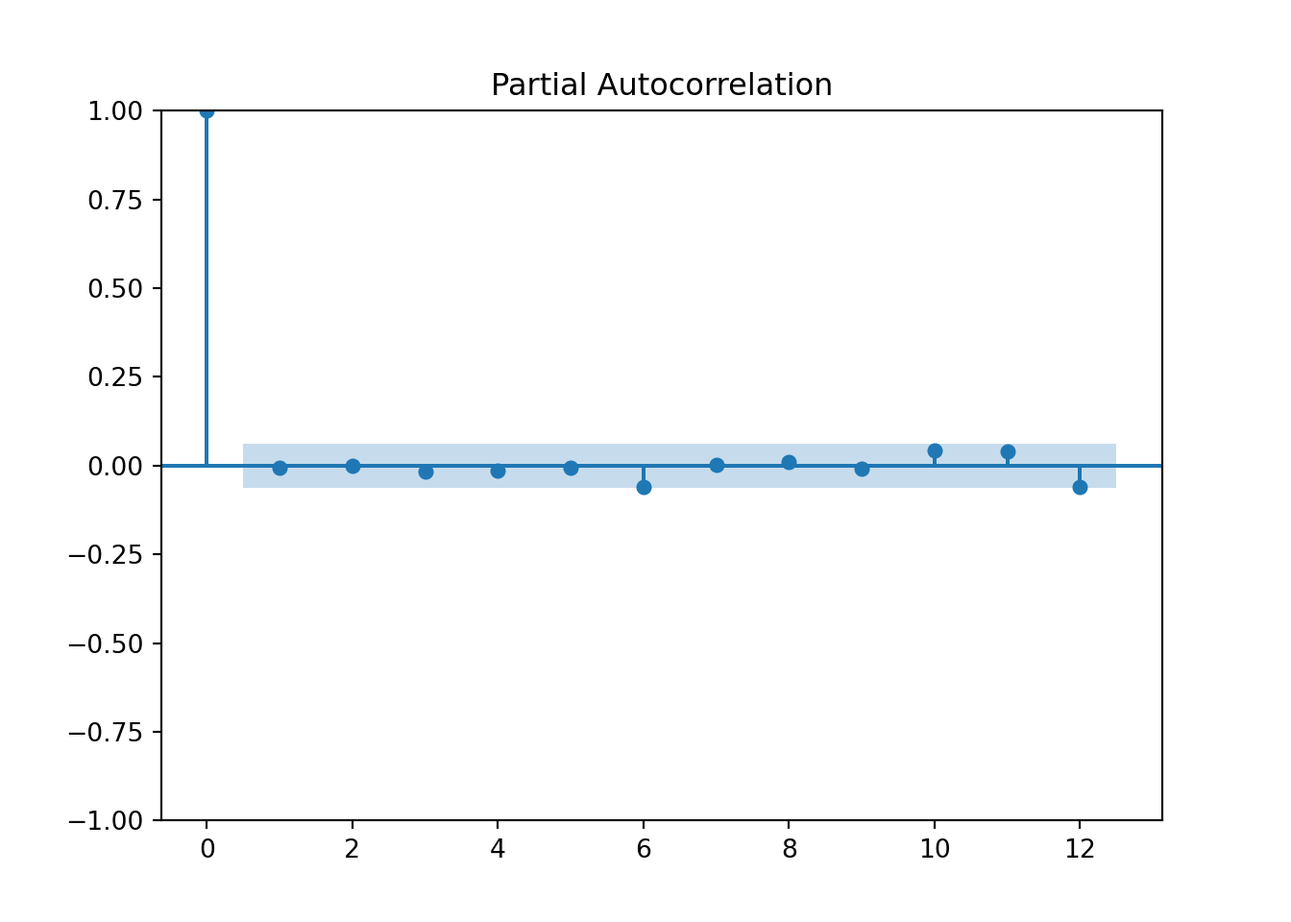
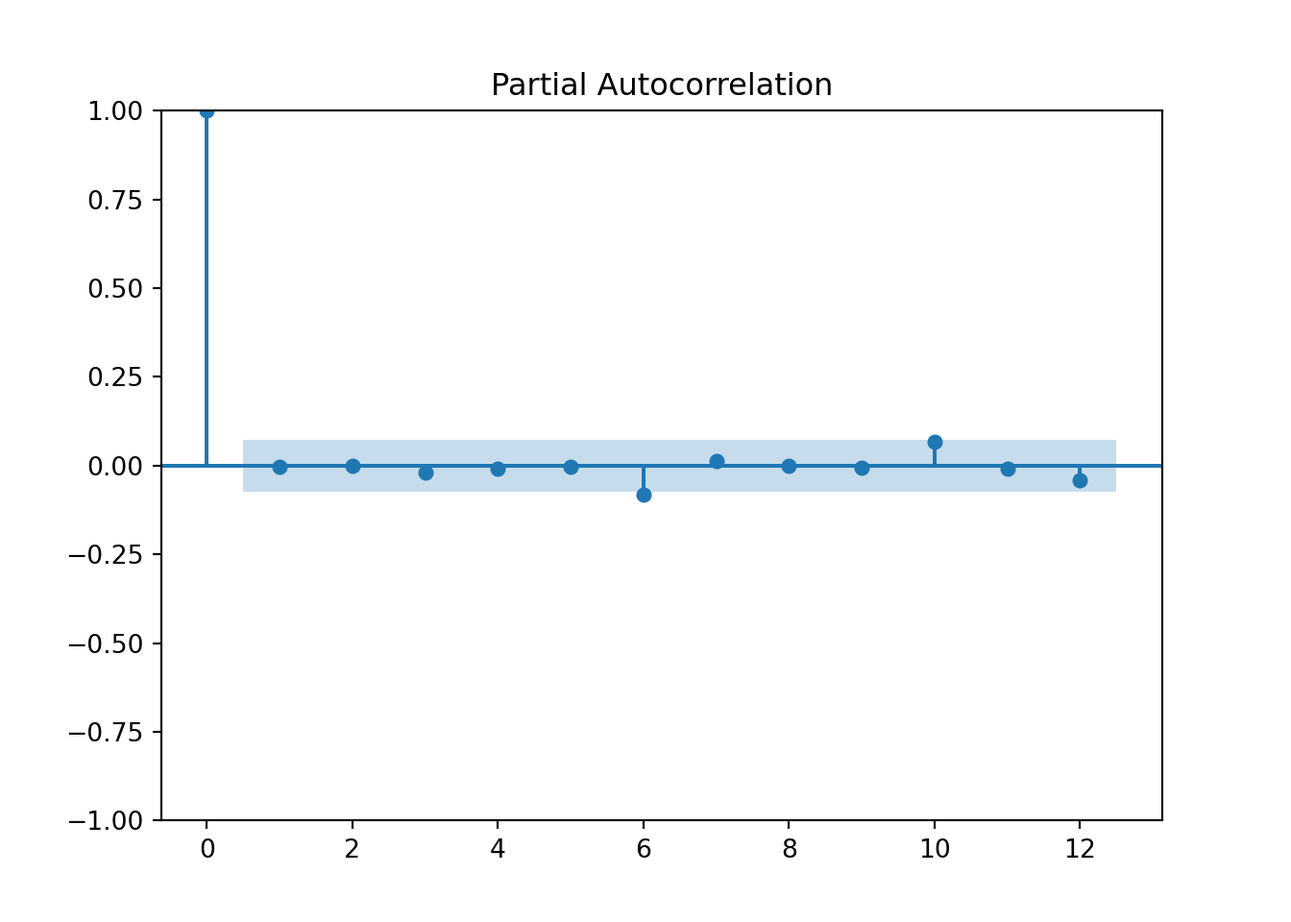
Updating Python for ARIMA

Changed region(s): [[0.1875, 0.4688, 0.8438, 0.5312], [0.4688, 0.5312, 0.5312, 0.5625]]

diff --git a/docs/arima.html b/docs/arima.html
@@ -23,7 +23,7 @@
 <meta name="author" content="by Dr. Susan Simmons and Dr. Aric LaBarr" />
 
 
-<meta name="date" content="2024-08-20" />
+<meta name="date" content="2024-08-21" />
 
   <meta name="viewport" content="width=device-width, initial-scale=1" />
   <meta name="apple-mobile-web-app-capable" content="yes" />
@@ -927,40 +927,42 @@ H_{A}:Significant\qquad autocorrletion \]</span></p>
 <span id="cb148-10"><a href="arima.html#cb148-10" tabindex="-1"></a></span>
 <span id="cb148-11"><a href="arima.html#cb148-11" tabindex="-1"></a>quotes<span class="op">=</span>pd.read_csv(<span class="st">&quot;Q:</span><span class="ch">\\</span><span class="st">My Drive</span><span class="ch">\\</span><span class="st">Fall 2017 - Time Series</span><span class="ch">\\</span><span class="st">DataR</span><span class="ch">\\</span><span class="st">fpp_insurance.csv&quot;</span>)</span>
 <span id="cb148-12"><a href="arima.html#cb148-12" tabindex="-1"></a>y<span class="op">=</span>pd.read_csv(<span class="st">&quot;Q:</span><span class="ch">\\</span><span class="st">My Drive</span><span class="ch">\\</span><span class="st">Fall 2017 - Time Series</span><span class="ch">\\</span><span class="st">DataR</span><span class="ch">\\</span><span class="st">ar2.csv&quot;</span>)</span>
-<span id="cb148-13"><a href="arima.html#cb148-13" tabindex="-1"></a></span>
-<span id="cb148-14"><a href="arima.html#cb148-14" tabindex="-1"></a>result<span class="op">=</span>adfuller(quotes[<span class="st">&quot;Quotes&quot;</span>])</span>
-<span id="cb148-15"><a href="arima.html#cb148-15" tabindex="-1"></a><span class="bu">print</span>(<span class="ss">f&#39;ADF p-value: </span><span class="sc">{</span>result[<span class="dv">1</span>]<span class="sc">}</span><span class="ss">&#39;</span>)</span></code></pre></div>
-<pre><code>## ADF p-value: 0.010194998749727997</code></pre>
-<div class="sourceCode" id="cb150"><pre class="sourceCode python"><code class="sourceCode python"><span id="cb150-1"><a href="arima.html#cb150-1" tabindex="-1"></a>plot_acf(quotes[<span class="st">&quot;Quotes&quot;</span>],lags<span class="op">=</span><span class="dv">12</span>)</span>
+<span id="cb148-13"><a href="arima.html#cb148-13" tabindex="-1"></a>quotes_train <span class="op">=</span> quotes.head(<span class="dv">36</span>)</span>
+<span id="cb148-14"><a href="arima.html#cb148-14" tabindex="-1"></a>y_train <span class="op">=</span> y.head(<span class="dv">731</span>)</span>
+<span id="cb148-15"><a href="arima.html#cb148-15" tabindex="-1"></a></span>
+<span id="cb148-16"><a href="arima.html#cb148-16" tabindex="-1"></a>result<span class="op">=</span>adfuller(quotes_train[<span class="st">&quot;Quotes&quot;</span>])</span>
+<span id="cb148-17"><a href="arima.html#cb148-17" tabindex="-1"></a><span class="bu">print</span>(<span class="ss">f&#39;ADF p-value: </span><span class="sc">{</span>result[<span class="dv">1</span>]<span class="sc">}</span><span class="ss">&#39;</span>)</span></code></pre></div>
+<pre><code>## ADF p-value: 0.04236093395330452</code></pre>
+<div class="sourceCode" id="cb150"><pre class="sourceCode python"><code class="sourceCode python"><span id="cb150-1"><a href="arima.html#cb150-1" tabindex="-1"></a>plot_acf(quotes_train[<span class="st">&quot;Quotes&quot;</span>],lags<span class="op">=</span><span class="dv">12</span>)</span>
 <span id="cb150-2"><a href="arima.html#cb150-2" tabindex="-1"></a>pyplot.show()</span></code></pre></div>
 <p><img src="bookdownproj_files/figure-html/ADF,%20correlation%20plots%20and%20ARIMA-1.png" width="672" /></p>
-<div class="sourceCode" id="cb151"><pre class="sourceCode python"><code class="sourceCode python"><span id="cb151-1"><a href="arima.html#cb151-1" tabindex="-1"></a>plot_pacf(quotes[<span class="st">&quot;Quotes&quot;</span>],lags<span class="op">=</span><span class="dv">12</span>)</span>
+<div class="sourceCode" id="cb151"><pre class="sourceCode python"><code class="sourceCode python"><span id="cb151-1"><a href="arima.html#cb151-1" tabindex="-1"></a>plot_pacf(quotes_train[<span class="st">&quot;Quotes&quot;</span>],lags<span class="op">=</span><span class="dv">12</span>)</span>
 <span id="cb151-2"><a href="arima.html#cb151-2" tabindex="-1"></a>pyplot.show</span></code></pre></div>
-<pre><code>## &lt;function make_python_function.&lt;locals&gt;.python_function at 0x000001EE61741B40&gt;</code></pre>
-<div class="sourceCode" id="cb153"><pre class="sourceCode python"><code class="sourceCode python"><span id="cb153-1"><a href="arima.html#cb153-1" tabindex="-1"></a>model <span class="op">=</span> ARIMA(y, order<span class="op">=</span>(<span class="dv">2</span>,<span class="dv">0</span>,<span class="dv">0</span>))</span>
+<pre><code>## &lt;function make_python_function.&lt;locals&gt;.python_function at 0x0000026CB1F41B40&gt;</code></pre>
+<div class="sourceCode" id="cb153"><pre class="sourceCode python"><code class="sourceCode python"><span id="cb153-1"><a href="arima.html#cb153-1" tabindex="-1"></a>model <span class="op">=</span> ARIMA(y_train, order<span class="op">=</span>(<span class="dv">2</span>,<span class="dv">0</span>,<span class="dv">0</span>))</span>
 <span id="cb153-2"><a href="arima.html#cb153-2" tabindex="-1"></a>model_fit <span class="op">=</span> model.fit()</span>
 <span id="cb153-3"><a href="arima.html#cb153-3" tabindex="-1"></a><span class="bu">print</span>(model_fit.summary())</span></code></pre></div>
 <pre><code>##                                SARIMAX Results                                
 ## ==============================================================================
-## Dep. Variable:                      Y   No. Observations:                 1000
-## Model:                 ARIMA(2, 0, 0)   Log Likelihood               -3695.014
-## Date:                Tue, 20 Aug 2024   AIC                           7398.028
-## Time:                        13:23:35   BIC                           7417.659
-## Sample:                             0   HQIC                          7405.489
-##                                - 1000                                         
+## Dep. Variable:                      Y   No. Observations:                  731
+## Model:                 ARIMA(2, 0, 0)   Log Likelihood               -2696.123
+## Date:                Wed, 21 Aug 2024   AIC                           5400.247
+## Time:                        12:10:33   BIC                           5418.625
+## Sample:                             0   HQIC                          5407.337
+##                                 - 731                                         
 ## Covariance Type:                  opg                                         
 ## ==============================================================================
 ##                  coef    std err          z      P&gt;|z|      [0.025      0.975]
 ## ------------------------------------------------------------------------------
-## const         -0.1365      0.420     -0.325      0.745      -0.960       0.687
-## ar.L1          0.6406      0.030     21.165      0.000       0.581       0.700
-## ar.L2         -0.3759      0.030    -12.466      0.000      -0.435      -0.317
-## sigma2        94.7853      4.193     22.604      0.000      86.567     103.004
+## const         -0.0960      0.481     -0.199      0.842      -1.039       0.847
+## ar.L1          0.6398      0.036     17.605      0.000       0.569       0.711
+## ar.L2         -0.3838      0.035    -11.007      0.000      -0.452      -0.315
+## sigma2        93.4961      4.803     19.466      0.000      84.083     102.910
 ## ===================================================================================
-## Ljung-Box (L1) (Q):                   0.02   Jarque-Bera (JB):                 0.26
-## Prob(Q):                              0.89   Prob(JB):                         0.88
-## Heteroskedasticity (H):               1.04   Skew:                            -0.03
-## Prob(H) (two-sided):                  0.73   Kurtosis:                         3.05
+## Ljung-Box (L1) (Q):                   0.00   Jarque-Bera (JB):                 0.27
+## Prob(Q):                              0.95   Prob(JB):                         0.88
+## Heteroskedasticity (H):               0.93   Skew:                            -0.03
+## Prob(H) (two-sided):                  0.58   Kurtosis:                         3.08
 ## ===================================================================================
 ## 
 ## Warnings:
@@ -970,131 +972,114 @@ H_{A}:Significant\qquad autocorrletion \]</span></p>
 <span id="cb155-3"><a href="arima.html#cb155-3" tabindex="-1"></a>pyplot.show()</span></code></pre></div>
 <p><img src="bookdownproj_files/figure-html/ADF,%20correlation%20plots%20and%20ARIMA-2.png" width="672" /></p>
 <div class="sourceCode" id="cb156"><pre class="sourceCode python"><code class="sourceCode python"><span id="cb156-1"><a href="arima.html#cb156-1" tabindex="-1"></a><span class="bu">print</span>(residuals.describe())</span></code></pre></div>
-<pre><code>##                  0
-## count  1000.000000
-## mean     -0.001313
-## std       9.747534
-## min     -33.282545
-## 25%      -6.475670
-## 50%       0.117391
-## 75%       6.510636
-## max      30.318100</code></pre>
+<pre><code>##                 0
+## count  731.000000
+## mean     0.001103
+## std      9.685433
+## min    -33.427139
+## 25%     -6.456285
+## 50%      0.257085
+## 75%      6.333976
+## max     30.312938</code></pre>
 <div class="sourceCode" id="cb158"><pre class="sourceCode python"><code class="sourceCode python"><span id="cb158-1"><a href="arima.html#cb158-1" tabindex="-1"></a>plot_acf(residuals,lags<span class="op">=</span><span class="dv">12</span>)</span>
 <span id="cb158-2"><a href="arima.html#cb158-2" tabindex="-1"></a>pyplot.show()</span></code></pre></div>
 <p><img src="bookdownproj_files/figure-html/ADF,%20correlation%20plots%20and%20ARIMA-3.png" width="672" /></p>
 <div class="sourceCode" id="cb159"><pre class="sourceCode python"><code class="sourceCode python"><span id="cb159-1"><a href="arima.html#cb159-1" tabindex="-1"></a>plot_pacf(residuals,lags<span class="op">=</span><span class="dv">12</span>)</span>
 <span id="cb159-2"><a href="arima.html#cb159-2" tabindex="-1"></a>pyplot.show()</span></code></pre></div>
 <p><img src="bookdownproj_files/figure-html/ADF,%20correlation%20plots%20and%20ARIMA-4.png" width="672" /><img src="bookdownproj_files/figure-html/ADF,%20correlation%20plots%20and%20ARIMA-5.png" width="672" /></p>
+<div class="sourceCode" id="cb160"><pre class="sourceCode python"><code class="sourceCode python"><span id="cb160-1"><a href="arima.html#cb160-1" tabindex="-1"></a><span class="im">from</span> pmdarima.arima <span class="im">import</span> ndiffs</span>
+<span id="cb160-2"><a href="arima.html#cb160-2" tabindex="-1"></a></span>
+<span id="cb160-3"><a href="arima.html#cb160-3" tabindex="-1"></a>hurricane <span class="op">=</span> pd.read_csv(<span class="st">&quot;https://raw.githubusercontent.com/sjsimmo2/TimeSeries/master/hurrican.csv&quot;</span>)</span>
+<span id="cb160-4"><a href="arima.html#cb160-4" tabindex="-1"></a>hurricane2 <span class="op">=</span> hurricane.dropna(axis<span class="op">=</span><span class="dv">0</span>)</span>
+<span id="cb160-5"><a href="arima.html#cb160-5" tabindex="-1"></a>hurricane_train <span class="op">=</span>hurricane2.head(<span class="dv">149</span>)</span>
+<span id="cb160-6"><a href="arima.html#cb160-6" tabindex="-1"></a>hurricane_train</span></code></pre></div>
+<pre><code>##      Date  Hurricanes  MinVMax  MaxVMax  MeanVMax  Year
+## 0    1851           3     80.0    100.0      86.7  1851
+## 1    1852           5     70.0    100.0      82.0  1852
+## 2    1853           4     70.0    130.0      97.5  1853
+## 3    1854           3     70.0    110.0      90.0  1854
+## 4    1855           4     70.0    110.0      90.0  1855
+## ..    ...         ...      ...      ...       ...   ...
+## 146  1997           3     65.0    110.0      81.7  1997
+## 147  1998          10     65.0    155.0      96.5  1998
+## 148  1999           8     85.0    135.0     114.4  1999
+## 149  2000           8     70.0    120.0      91.3  2000
+## 150  2001           9     65.0    125.0      91.7  2001
+## 
+## [149 rows x 6 columns]</code></pre>
+<div class="sourceCode" id="cb162"><pre class="sourceCode python"><code class="sourceCode python"><span id="cb162-1"><a href="arima.html#cb162-1" tabindex="-1"></a>n_diffs <span class="op">=</span> ndiffs(hurricane_train[<span class="st">&quot;MeanVMax&quot;</span>])</span>
+<span id="cb162-2"><a href="arima.html#cb162-2" tabindex="-1"></a><span class="bu">print</span>(n_diffs)</span></code></pre></div>
+<pre><code>## 1</code></pre>
 <p>Checking for white noise:
 The first value in the Ljung-Box test is the test statistic and the second value is the p-value.</p>
-<div class="sourceCode" id="cb160"><pre class="sourceCode python"><code class="sourceCode python"><span id="cb160-1"><a href="arima.html#cb160-1" tabindex="-1"></a><span class="im">import</span> numpy <span class="im">as</span> np</span>
-<span id="cb160-2"><a href="arima.html#cb160-2" tabindex="-1"></a><span class="im">import</span> pandas <span class="im">as</span> pd</span>
-<span id="cb160-3"><a href="arima.html#cb160-3" tabindex="-1"></a><span class="im">import</span> matplotlib.pyplot <span class="im">as</span> plt</span>
-<span id="cb160-4"><a href="arima.html#cb160-4" tabindex="-1"></a><span class="im">from</span> matplotlib <span class="im">import</span> pyplot</span>
-<span id="cb160-5"><a href="arima.html#cb160-5" tabindex="-1"></a><span class="im">from</span> pandas <span class="im">import</span> DataFrame</span>
-<span id="cb160-6"><a href="arima.html#cb160-6" tabindex="-1"></a><span class="im">import</span> statsmodels.api <span class="im">as</span> sm</span>
-<span id="cb160-7"><a href="arima.html#cb160-7" tabindex="-1"></a><span class="im">from</span> statsmodels.tsa.stattools <span class="im">import</span> adfuller</span>
-<span id="cb160-8"><a href="arima.html#cb160-8" tabindex="-1"></a><span class="im">from</span> statsmodels.graphics.tsaplots <span class="im">import</span> plot_acf</span>
-<span id="cb160-9"><a href="arima.html#cb160-9" tabindex="-1"></a><span class="im">from</span> statsmodels.graphics.tsaplots <span class="im">import</span> plot_pacf</span>
-<span id="cb160-10"><a href="arima.html#cb160-10" tabindex="-1"></a><span class="im">from</span> statsmodels.tsa.arima.model <span class="im">import</span> ARIMA</span>
-<span id="cb160-11"><a href="arima.html#cb160-11" tabindex="-1"></a></span>
-<span id="cb160-12"><a href="arima.html#cb160-12" tabindex="-1"></a>quotes<span class="op">=</span>pd.read_csv(<span class="st">&quot;Q:</span><span class="ch">\\</span><span class="st">My Drive</span><span class="ch">\\</span><span class="st">Fall 2017 - Time Series</span><span class="ch">\\</span><span class="st">DataR</span><span class="ch">\\</span><span class="st">fpp_insurance.csv&quot;</span>)</span>
-<span id="cb160-13"><a href="arima.html#cb160-13" tabindex="-1"></a>y<span class="op">=</span>pd.read_csv(<span class="st">&quot;Q:</span><span class="ch">\\</span><span class="st">My Drive</span><span class="ch">\\</span><span class="st">Fall 2017 - Time Series</span><span class="ch">\\</span><span class="st">DataR</span><span class="ch">\\</span><span class="st">ar2.csv&quot;</span>)</span>
-<span id="cb160-14"><a href="arima.html#cb160-14" tabindex="-1"></a></span>
-<span id="cb160-15"><a href="arima.html#cb160-15" tabindex="-1"></a></span>
-<span id="cb160-16"><a href="arima.html#cb160-16" tabindex="-1"></a>model <span class="op">=</span> ARIMA(y, order<span class="op">=</span>(<span class="dv">2</span>,<span class="dv">0</span>,<span class="dv">0</span>))</span>
-<span id="cb160-17"><a href="arima.html#cb160-17" tabindex="-1"></a>model_fit <span class="op">=</span> model.fit()</span>
-<span id="cb160-18"><a href="arima.html#cb160-18" tabindex="-1"></a><span class="bu">print</span>(model_fit.summary())</span></code></pre></div>
+<div class="sourceCode" id="cb164"><pre class="sourceCode python"><code class="sourceCode python"><span id="cb164-1"><a href="arima.html#cb164-1" tabindex="-1"></a><span class="im">import</span> statsmodels.stats.diagnostic <span class="im">as</span> diag</span>
+<span id="cb164-2"><a href="arima.html#cb164-2" tabindex="-1"></a></span>
+<span id="cb164-3"><a href="arima.html#cb164-3" tabindex="-1"></a></span>
+<span id="cb164-4"><a href="arima.html#cb164-4" tabindex="-1"></a>model <span class="op">=</span> ARIMA(y_train, order<span class="op">=</span>(<span class="dv">2</span>,<span class="dv">0</span>,<span class="dv">0</span>))</span>
+<span id="cb164-5"><a href="arima.html#cb164-5" tabindex="-1"></a>model_fit <span class="op">=</span> model.fit()</span>
+<span id="cb164-6"><a href="arima.html#cb164-6" tabindex="-1"></a><span class="bu">print</span>(model_fit.summary())</span></code></pre></div>
 <pre><code>##                                SARIMAX Results                                
 ## ==============================================================================
-## Dep. Variable:                      Y   No. Observations:                 1000
-## Model:                 ARIMA(2, 0, 0)   Log Likelihood               -3695.014
-## Date:                Tue, 20 Aug 2024   AIC                           7398.028
-## Time:                        13:23:36   BIC                           7417.659
-## Sample:                             0   HQIC                          7405.489
-##                                - 1000                                         
+## Dep. Variable:                      Y   No. Observations:                  731
+## Model:                 ARIMA(2, 0, 0)   Log Likelihood               -2696.123
+## Date:                Wed, 21 Aug 2024   AIC                           5400.247
+## Time:                        12:10:37   BIC                           5418.625
+## Sample:                             0   HQIC                          5407.337
+##                                 - 731                                         
 ## Covariance Type:                  opg                                         
 ## ==============================================================================
 ##                  coef    std err          z      P&gt;|z|      [0.025      0.975]
 ## ------------------------------------------------------------------------------
-## const         -0.1365      0.420     -0.325      0.745      -0.960       0.687
-## ar.L1          0.6406      0.030     21.165      0.000       0.581       0.700
-## ar.L2         -0.3759      0.030    -12.466      0.000      -0.435      -0.317
-## sigma2        94.7853      4.193     22.604      0.000      86.567     103.004
+## const         -0.0960      0.481     -0.199      0.842      -1.039       0.847
+## ar.L1          0.6398      0.036     17.605      0.000       0.569       0.711
+## ar.L2         -0.3838      0.035    -11.007      0.000      -0.452      -0.315
+## sigma2        93.4961      4.803     19.466      0.000      84.083     102.910
 ## ===================================================================================
-## Ljung-Box (L1) (Q):                   0.02   Jarque-Bera (JB):                 0.26
-## Prob(Q):                              0.89   Prob(JB):                         0.88
-## Heteroskedasticity (H):               1.04   Skew:                            -0.03
-## Prob(H) (two-sided):                  0.73   Kurtosis:                         3.05
+## Ljung-Box (L1) (Q):                   0.00   Jarque-Bera (JB):                 0.27
+## Prob(Q):                              0.95   Prob(JB):                         0.88
+## Heteroskedasticity (H):               0.93   Skew:                            -0.03
+## Prob(H) (two-sided):                  0.58   Kurtosis:                         3.08
 ## ===================================================================================
 ## 
 ## Warnings:
 ## [1] Covariance matrix calculated using the outer product of gradients (complex-step).</code></pre>
-<div class="sourceCode" id="cb162"><pre class="sourceCode python"><code class="sourceCode python"><span id="cb162-1"><a href="arima.html#cb162-1" tabindex="-1"></a>lag_test<span class="op">=</span>[<span class="dv">3</span>,<span class="dv">4</span>,<span class="dv">5</span>,<span class="dv">6</span>,<span class="dv">7</span>,<span class="dv">8</span>,<span class="dv">9</span>,<span class="dv">10</span>]</span>
-<span id="cb162-2"><a href="arima.html#cb162-2" tabindex="-1"></a></span>
-<span id="cb162-3"><a href="arima.html#cb162-3" tabindex="-1"></a><span class="cf">for</span> x <span class="kw">in</span> lag_test:</span>
-<span id="cb162-4"><a href="arima.html#cb162-4" tabindex="-1"></a>  sm.stats.acorr_ljungbox(model_fit.resid, lags<span class="op">=</span>[x], model_df<span class="op">=</span><span class="dv">2</span>)</span></code></pre></div>
-<pre><code>##     lb_stat  lb_pvalue
-## 3  0.312026    0.57644
-##    lb_stat  lb_pvalue
-## 4  0.48802    0.78348
-##     lb_stat  lb_pvalue
-## 5  0.514998   0.915584
-##     lb_stat  lb_pvalue
-## 6  4.115336   0.390622
-##    lb_stat  lb_pvalue
-## 7  4.12802   0.531135
-##     lb_stat  lb_pvalue
-## 8  4.256921   0.641952
-##     lb_stat  lb_pvalue
-## 9  4.313757   0.743012
-##      lb_stat  lb_pvalue
-## 10  6.360916   0.606873</code></pre>
+<div class="sourceCode" id="cb166"><pre class="sourceCode python"><code class="sourceCode python"><span id="cb166-1"><a href="arima.html#cb166-1" tabindex="-1"></a><span class="co"># Perform the Ljung-Box test</span></span>
+<span id="cb166-2"><a href="arima.html#cb166-2" tabindex="-1"></a>lb_test <span class="op">=</span> diag.acorr_ljungbox(model_fit.resid, lags<span class="op">=</span>[<span class="dv">10</span>], model_df<span class="op">=</span><span class="dv">2</span>)</span>
+<span id="cb166-3"><a href="arima.html#cb166-3" tabindex="-1"></a><span class="bu">print</span>(lb_test)</span></code></pre></div>
+<pre><code>##      lb_stat  lb_pvalue
+## 10  8.542081   0.382384</code></pre>
 <p>Fitting ARIMA models.</p>
-<div class="sourceCode" id="cb164"><pre class="sourceCode python"><code class="sourceCode python"><span id="cb164-1"><a href="arima.html#cb164-1" tabindex="-1"></a><span class="im">import</span> numpy <span class="im">as</span> np</span>
-<span id="cb164-2"><a href="arima.html#cb164-2" tabindex="-1"></a><span class="im">import</span> pandas <span class="im">as</span> pd</span>
-<span id="cb164-3"><a href="arima.html#cb164-3" tabindex="-1"></a><span class="im">import</span> matplotlib.pyplot <span class="im">as</span> plt</span>
-<span id="cb164-4"><a href="arima.html#cb164-4" tabindex="-1"></a><span class="im">from</span> matplotlib <span class="im">import</span> pyplot</span>
-<span id="cb164-5"><a href="arima.html#cb164-5" tabindex="-1"></a><span class="im">from</span> pandas <span class="im">import</span> DataFrame</span>
-<span id="cb164-6"><a href="arima.html#cb164-6" tabindex="-1"></a><span class="im">import</span> statsmodels.api <span class="im">as</span> sm</span>
-<span id="cb164-7"><a href="arima.html#cb164-7" tabindex="-1"></a><span class="im">from</span> statsmodels.tsa.stattools <span class="im">import</span> adfuller</span>
-<span id="cb164-8"><a href="arima.html#cb164-8" tabindex="-1"></a><span class="im">from</span> statsmodels.graphics.tsaplots <span class="im">import</span> plot_acf</span>
-<span id="cb164-9"><a href="arima.html#cb164-9" tabindex="-1"></a><span class="im">from</span> statsmodels.graphics.tsaplots <span class="im">import</span> plot_pacf</span>
-<span id="cb164-10"><a href="arima.html#cb164-10" tabindex="-1"></a><span class="im">from</span> statsmodels.tsa.arima.model <span class="im">import</span> ARIMA</span>
-<span id="cb164-11"><a href="arima.html#cb164-11" tabindex="-1"></a><span class="im">import</span> pmdarima <span class="im">as</span> pm</span>
-<span id="cb164-12"><a href="arima.html#cb164-12" tabindex="-1"></a></span>
-<span id="cb164-13"><a href="arima.html#cb164-13" tabindex="-1"></a></span>
-<span id="cb164-14"><a href="arima.html#cb164-14" tabindex="-1"></a>hurricane<span class="op">=</span>pd.read_csv(<span class="st">&quot;Q:</span><span class="ch">\\</span><span class="st">My Drive</span><span class="ch">\\</span><span class="st">Fall 2017 - Time Series</span><span class="ch">\\</span><span class="st">DataR</span><span class="ch">\\</span><span class="st">hurrican.csv&quot;</span>)</span>
-<span id="cb164-15"><a href="arima.html#cb164-15" tabindex="-1"></a>max_velocity<span class="op">=</span>hurricane[<span class="st">&quot;MeanVMax&quot;</span>]</span>
-<span id="cb164-16"><a href="arima.html#cb164-16" tabindex="-1"></a>max2<span class="op">=</span>max_velocity.dropna()</span>
-<span id="cb164-17"><a href="arima.html#cb164-17" tabindex="-1"></a></span>
-<span id="cb164-18"><a href="arima.html#cb164-18" tabindex="-1"></a><span class="co">### Testing stationarity </span></span>
-<span id="cb164-19"><a href="arima.html#cb164-19" tabindex="-1"></a></span>
-<span id="cb164-20"><a href="arima.html#cb164-20" tabindex="-1"></a>result<span class="op">=</span>adfuller(max2)</span>
-<span id="cb164-21"><a href="arima.html#cb164-21" tabindex="-1"></a><span class="bu">print</span>(<span class="ss">f&#39;ADF p-value: </span><span class="sc">{</span>result[<span class="dv">1</span>]<span class="sc">}</span><span class="ss">&#39;</span>)</span></code></pre></div>
-<pre><code>## ADF p-value: 0.0010116374636738128</code></pre>
-<div class="sourceCode" id="cb166"><pre class="sourceCode python"><code class="sourceCode python"><span id="cb166-1"><a href="arima.html#cb166-1" tabindex="-1"></a><span class="co">### Same result as auto.arima in R!</span></span>
-<span id="cb166-2"><a href="arima.html#cb166-2" tabindex="-1"></a>model1<span class="op">=</span>pm.auto_arima(max2, start_p<span class="op">=</span><span class="dv">0</span>,start_q<span class="op">=</span><span class="dv">0</span>,max_p<span class="op">=</span><span class="dv">5</span>,max_q<span class="op">=</span><span class="dv">5</span>,seasonal<span class="op">=</span><span class="va">False</span>)</span>
-<span id="cb166-3"><a href="arima.html#cb166-3" tabindex="-1"></a>model1.summary()</span></code></pre></div>
+<div class="sourceCode" id="cb168"><pre class="sourceCode python"><code class="sourceCode python"><span id="cb168-1"><a href="arima.html#cb168-1" tabindex="-1"></a><span class="im">import</span> pmdarima <span class="im">as</span> pm</span>
+<span id="cb168-2"><a href="arima.html#cb168-2" tabindex="-1"></a></span>
+<span id="cb168-3"><a href="arima.html#cb168-3" tabindex="-1"></a></span>
+<span id="cb168-4"><a href="arima.html#cb168-4" tabindex="-1"></a><span class="co">### Testing stationarity </span></span>
+<span id="cb168-5"><a href="arima.html#cb168-5" tabindex="-1"></a>max2 <span class="op">=</span> hurricane_train[<span class="st">&quot;MeanVMax&quot;</span>]</span>
+<span id="cb168-6"><a href="arima.html#cb168-6" tabindex="-1"></a></span>
+<span id="cb168-7"><a href="arima.html#cb168-7" tabindex="-1"></a>result<span class="op">=</span>adfuller(max2)</span>
+<span id="cb168-8"><a href="arima.html#cb168-8" tabindex="-1"></a><span class="bu">print</span>(<span class="ss">f&#39;ADF p-value: </span><span class="sc">{</span>result[<span class="dv">1</span>]<span class="sc">}</span><span class="ss">&#39;</span>)</span></code></pre></div>
+<pre><code>## ADF p-value: 0.001278353358750677</code></pre>
+<div class="sourceCode" id="cb170"><pre class="sourceCode python"><code class="sourceCode python"><span id="cb170-1"><a href="arima.html#cb170-1" tabindex="-1"></a><span class="co">### Same result as auto.arima in R!</span></span>
+<span id="cb170-2"><a href="arima.html#cb170-2" tabindex="-1"></a>model1<span class="op">=</span>pm.auto_arima(max2, start_p<span class="op">=</span><span class="dv">0</span>,start_q<span class="op">=</span><span class="dv">0</span>,max_p<span class="op">=</span><span class="dv">5</span>,max_q<span class="op">=</span><span class="dv">5</span>,seasonal<span class="op">=</span><span class="va">False</span>)</span>
+<span id="cb170-3"><a href="arima.html#cb170-3" tabindex="-1"></a>model1.summary()</span></code></pre></div>
 <table class="simpletable">
 <caption>SARIMAX Results</caption>
 <tr>
-  <th>Dep. Variable:</th>           <td>y</td>        <th>  No. Observations:  </th>    <td>155</td>  
+  <th>Dep. Variable:</th>           <td>y</td>        <th>  No. Observations:  </th>    <td>149</td>  
 </tr>
 <tr>
-  <th>Model:</th>           <td>SARIMAX(0, 1, 1)</td> <th>  Log Likelihood     </th> <td>-570.040</td>
+  <th>Model:</th>           <td>SARIMAX(0, 1, 1)</td> <th>  Log Likelihood     </th> <td>-548.856</td>
 </tr>
 <tr>
-  <th>Date:</th>            <td>Tue, 20 Aug 2024</td> <th>  AIC                </th> <td>1144.080</td>
+  <th>Date:</th>            <td>Wed, 21 Aug 2024</td> <th>  AIC                </th> <td>1101.711</td>
 </tr>
 <tr>
-  <th>Time:</th>                <td>13:23:37</td>     <th>  BIC                </th> <td>1150.154</td>
+  <th>Time:</th>                <td>12:10:38</td>     <th>  BIC                </th> <td>1107.705</td>
 </tr>
 <tr>
-  <th>Sample:</th>                  <td>0</td>        <th>  HQIC               </th> <td>1146.547</td>
+  <th>Sample:</th>                  <td>0</td>        <th>  HQIC               </th> <td>1104.147</td>
 </tr>
 <tr>
-  <th></th>                      <td> - 155</td>      <th>                     </th>     <td> </td>   
+  <th></th>                      <td> - 149</td>      <th>                     </th>     <td> </td>   
 </tr>
 <tr>
   <th>Covariance Type:</th>        <td>opg</td>       <th>                     </th>     <td> </td>   
@@ -1105,48 +1090,48 @@ The first value in the Ljung-Box test is the test statistic and the second value
      <td></td>       <th>coef</th>     <th>std err</th>      <th>z</th>      <th>P>|z|</th>  <th>[0.025</th>    <th>0.975]</th>  
 </tr>
 <tr>
-  <th>ma.L1</th>  <td>   -0.9050</td> <td>    0.036</td> <td>  -25.036</td> <td> 0.000</td> <td>   -0.976</td> <td>   -0.834</td>
+  <th>ma.L1</th>  <td>   -0.9119</td> <td>    0.034</td> <td>  -26.461</td> <td> 0.000</td> <td>   -0.979</td> <td>   -0.844</td>
 </tr>
 <tr>
-  <th>sigma2</th> <td>   95.0278</td> <td>   10.416</td> <td>    9.123</td> <td> 0.000</td> <td>   74.612</td> <td>  115.443</td>
+  <th>sigma2</th> <td>   96.2620</td> <td>   10.734</td> <td>    8.968</td> <td> 0.000</td> <td>   75.224</td> <td>  117.300</td>
 </tr>
 </table>
 <table class="simpletable">
 <tr>
-  <th>Ljung-Box (L1) (Q):</th>     <td>0.05</td> <th>  Jarque-Bera (JB):  </th> <td>0.30</td>
+  <th>Ljung-Box (L1) (Q):</th>     <td>0.04</td> <th>  Jarque-Bera (JB):  </th> <td>0.52</td>
 </tr>
 <tr>
-  <th>Prob(Q):</th>                <td>0.81</td> <th>  Prob(JB):          </th> <td>0.86</td>
+  <th>Prob(Q):</th>                <td>0.85</td> <th>  Prob(JB):          </th> <td>0.77</td>
 </tr>
 <tr>
-  <th>Heteroskedasticity (H):</th> <td>2.10</td> <th>  Skew:              </th> <td>0.08</td>
+  <th>Heteroskedasticity (H):</th> <td>2.26</td> <th>  Skew:              </th> <td>0.12</td>
 </tr>
 <tr>
-  <th>Prob(H) (two-sided):</th>    <td>0.01</td> <th>  Kurtosis:          </th> <td>3.15</td>
+  <th>Prob(H) (two-sided):</th>    <td>0.01</td> <th>  Kurtosis:          </th> <td>3.16</td>
 </tr>
 </table><br/><br/>Warnings:<br/>[1] Covariance matrix calculated using the outer product of gradients (complex-step).
-<div class="sourceCode" id="cb167"><pre class="sourceCode python"><code class="sourceCode python"><span id="cb167-1"><a href="arima.html#cb167-1" tabindex="-1"></a><span class="co"># Force d=0</span></span>
-<span id="cb167-2"><a href="arima.html#cb167-2" tabindex="-1"></a>model2<span class="op">=</span>pm.auto_arima(max2, start_p<span class="op">=</span><span class="dv">0</span>,start_q<span class="op">=</span><span class="dv">0</span>,max_p<span class="op">=</span><span class="dv">5</span>,max_q<span class="op">=</span><span class="dv">5</span>,d<span class="op">=</span><span class="dv">0</span>,seasonal<span class="op">=</span><span class="va">False</span>)</span>
-<span id="cb167-3"><a href="arima.html#cb167-3" tabindex="-1"></a>model2.summary()</span></code></pre></div>
+<div class="sourceCode" id="cb171"><pre class="sourceCode python"><code class="sourceCode python"><span id="cb171-1"><a href="arima.html#cb171-1" tabindex="-1"></a><span class="co"># Force d=0</span></span>
+<span id="cb171-2"><a href="arima.html#cb171-2" tabindex="-1"></a>model2<span class="op">=</span>pm.auto_arima(max2, start_p<span class="op">=</span><span class="dv">0</span>,start_q<span class="op">=</span><span class="dv">0</span>,max_p<span class="op">=</span><span class="dv">5</span>,max_q<span class="op">=</span><span class="dv">5</span>,d<span class="op">=</span><span class="dv">0</span>,seasonal<span class="op">=</span><span class="va">False</span>)</span>
+<span id="cb171-3"><a href="arima.html#cb171-3" tabindex="-1"></a>model2.summary()</span></code></pre></div>
 <table class="simpletable">
 <caption>SARIMAX Results</caption>
 <tr>
-  <th>Dep. Variable:</th>           <td>y</td>        <th>  No. Observations:  </th>    <td>155</td>  
+  <th>Dep. Variable:</th>           <td>y</td>        <th>  No. Observations:  </th>    <td>149</td>  
 </tr>
 <tr>
-  <th>Model:</th>           <td>SARIMAX(1, 0, 1)</td> <th>  Log Likelihood     </th> <td>-574.278</td>
+  <th>Model:</th>           <td>SARIMAX(1, 0, 1)</td> <th>  Log Likelihood     </th> <td>-554.765</td>
 </tr>
 <tr>
-  <th>Date:</th>            <td>Tue, 20 Aug 2024</td> <th>  AIC                </th> <td>1156.556</td>
+  <th>Date:</th>            <td>Wed, 21 Aug 2024</td> <th>  AIC                </th> <td>1115.530</td>
 </tr>
 <tr>
-  <th>Time:</th>                <td>13:23:39</td>     <th>  BIC                </th> <td>1168.729</td>
+  <th>Time:</th>                <td>12:10:39</td>     <th>  BIC                </th> <td>1124.542</td>
 </tr>
 <tr>
-  <th>Sample:</th>                  <td>0</td>        <th>  HQIC               </th> <td>1161.500</td>
+  <th>Sample:</th>                  <td>0</td>        <th>  HQIC               </th> <td>1119.192</td>
 </tr>
 <tr>
-  <th></th>                      <td> - 155</td>      <th>                     </th>     <td> </td>   
+  <th></th>                      <td> - 149</td>      <th>                     </th>     <td> </td>   
 </tr>
 <tr>
   <th>Covariance Type:</th>        <td>opg</td>       <th>                     </th>     <td> </td>   
@@ -1154,33 +1139,30 @@ The first value in the Ljung-Box test is the test statistic and the second value
 </table>
 <table class="simpletable">
 <tr>
-      <td></td>         <th>coef</th>     <th>std err</th>      <th>z</th>      <th>P>|z|</th>  <th>[0.025</th>    <th>0.975]</th>  
+     <td></td>       <th>coef</th>     <th>std err</th>      <th>z</th>      <th>P>|z|</th>  <th>[0.025</th>    <th>0.975]</th>  
 </tr>
 <tr>
-  <th>intercept</th> <td>   26.5825</td> <td>   20.863</td> <td>    1.274</td> <td> 0.203</td> <td>  -14.308</td> <td>   67.473</td>
+  <th>ar.L1</th>  <td>    1.0000</td> <td>    0.001</td> <td> 1850.764</td> <td> 0.000</td> <td>    0.999</td> <td>    1.001</td>
 </tr>
 <tr>
-  <th>ar.L1</th>     <td>    0.7082</td> <td>    0.228</td> <td>    3.103</td> <td> 0.002</td> <td>    0.261</td> <td>    1.156</td>
+  <th>ma.L1</th>  <td>   -0.9120</td> <td>    0.036</td> <td>  -25.660</td> <td> 0.000</td> <td>   -0.982</td> <td>   -0.842</td>
 </tr>
 <tr>
-  <th>ma.L1</th>     <td>   -0.5717</td> <td>    0.281</td> <td>   -2.031</td> <td> 0.042</td> <td>   -1.123</td> <td>   -0.020</td>
-</tr>
-<tr>
-  <th>sigma2</th>    <td>   97.3309</td> <td>   11.556</td> <td>    8.423</td> <td> 0.000</td> <td>   74.682</td> <td>  119.979</td>
+  <th>sigma2</th> <td>   96.2540</td> <td>   10.791</td> <td>    8.920</td> <td> 0.000</td> <td>   75.104</td> <td>  117.404</td>
 </tr>
 </table>
 <table class="simpletable">
 <tr>
-  <th>Ljung-Box (L1) (Q):</th>     <td>0.23</td> <th>  Jarque-Bera (JB):  </th> <td>2.12</td>
+  <th>Ljung-Box (L1) (Q):</th>     <td>0.05</td> <th>  Jarque-Bera (JB):  </th> <td>0.40</td>
 </tr>
 <tr>
-  <th>Prob(Q):</th>                <td>0.63</td> <th>  Prob(JB):          </th> <td>0.35</td>
+  <th>Prob(Q):</th>                <td>0.83</td> <th>  Prob(JB):          </th> <td>0.82</td>
 </tr>
 <tr>
-  <th>Heteroskedasticity (H):</th> <td>1.75</td> <th>  Skew:              </th> <td>0.29</td>
+  <th>Heteroskedasticity (H):</th> <td>2.19</td> <th>  Skew:              </th> <td>0.10</td>
 </tr>
 <tr>
-  <th>Prob(H) (two-sided):</th>    <td>0.05</td> <th>  Kurtosis:          </th> <td>2.95</td>
+  <th>Prob(H) (two-sided):</th>    <td>0.01</td> <th>  Kurtosis:          </th> <td>3.15</td>
 </tr>
 </table><br/><br/>Warnings:<br/>[1] Covariance matrix calculated using the outer product of gradients (complex-step).
 </div>
